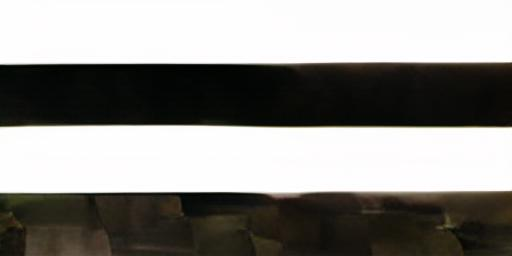
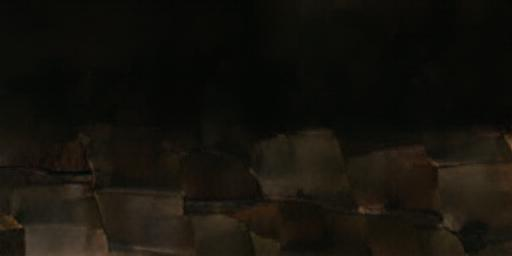
コードブックの一つずつを生成

diff --git a/generate_dataset.py b/generate_dataset.py
@@ -5,6 +5,7 @@ from torchvision.transforms.functional import to_pil_image
 import tqdm
 import os
 from utils.util import to_code,code_to_img
+from PIL import Image
 device = "cpu"
 
 vqvaes = torch.load("vqvae_models.pth")
@@ -23,8 +24,6 @@ torch.backends.cudnn.benchmark=True
 with torch.inference_mode():
     for i,d in enumerate(tqdm.tqdm(dataset)):
         data,path,roll_pixel = d
-        patch_size = 128
-        data[:,:patch_size, :patch_size] = 1
         #data = img = torch.from_numpy(cv2.resize(img,(512,256))).permute(2,0,1)
         data = to_code(data,encoder,quantizer,device)
         np.savez_compressed(f"datas_all_one/{i:06}.npz",data=data,path=np.array([path]),degree=np.array([roll_pixel]))
@@ -32,6 +31,7 @@ with torch.inference_mode():
             img = to_pil_image(code_to_img(data,quantizer,decoder,device)[0])
             img.save(f"vqvae_recon_one/{os.path.basename(path)}")
 
+#original
 with torch.inference_mode():
     for i,d in enumerate(tqdm.tqdm(dataset_test)):
         data,path,roll_pixel = d
@@ -41,3 +41,53 @@ with torch.inference_mode():
         if roll_pixel==0:
             img = to_pil_image(code_to_img(data,quantizer,decoder,device)[0])
             img.save(f"vqvae_recon_one_test/{os.path.basename(path)}")
+
+###############PATTERN_1   test用データ　エンコード前に画像の左上を白に加工##########################
+# with torch.inference_mode():
+#     for i,d in enumerate(tqdm.tqdm(dataset_test)):
+#         data,path,roll_pixel = d
+#         patch_size = 128
+#         data[:,:patch_size, :patch_size] = 1
+#         #data = img = torch.from_numpy(cv2.resize(img,(512,256))).permute(2,0,1)
+#         data = to_code(data,encoder,quantizer,device)
+#         np.savez_compressed(f"datas_all_test_one/{i:06}.npz",data=data,path=np.array([path]),degree=np.array([roll_pixel]))
+#         if roll_pixel==0:
+#             img = to_pil_image(code_to_img(data,quantizer,decoder,device)[0])
+#             img.save(f"vqvae_recon_one_test/{os.path.basename(path)}")
+
+
+###############PATTERN_2   test用データ　エンコーダ後にコードブックの左上を白に加工#####################
+with torch.inference_mode():
+    for i,d in enumerate(tqdm.tqdm(dataset_test)):
+        data,path,roll_pixel = d
+        #data = img = torch.from_numpy(cv2.resize(img,(512,256))).permute(2,0,1)
+        data = to_code(data,encoder,quantizer,device)
+        
+        #codebookの中身を変更
+        patch_size = 4
+        max_idx = data.max()
+        data = data.reshape(16,32)#flattenされていた部分を長方形型に
+        data[:patch_size,:patch_size] = max_idx
+        data = data.flatten()#flatに戻す
+        
+
+        np.savez_compressed(f"datas_all_test_one/{i:06}.npz",data=data,path=np.array([path]),degree=np.array([roll_pixel]))
+        if roll_pixel==0:
+            img = to_pil_image(code_to_img(data,quantizer,decoder,device)[0])
+            img.save(f"vqvae_recon_one_test/{os.path.basename(path)}")
+
+###############PATTERN_3  コードブックを分けて別々で生成　その後画像を並べて結合　##############################
+with torch.inference_mode():
+    for i,d in enumerate(tqdm.tqdm(dataset_test)):
+        data,path,roll_pixel = d
+        #data = img = torch.from_numpy(cv2.resize(img,(512,256))).permute(2,0,1)
+        data = to_code(data,encoder,quantizer,device)
+        np.savez_compressed(f"datas_all_test_one/{i:06}.npz",data=data,path=np.array([path]),degree=np.array([roll_pixel]))
+        if roll_pixel==0:
+            concat_img = Image.new('RGB',(512,256))
+            for i in range(16):
+                for j in range(32):
+                    code = data[i+j]
+                    img_patch = to_pil_image(code_to_img(data,quantizer,decoder,device)[0])
+                    concat_img.paste(img_patch,(16*j,16*i))
+            concat_img.save(f"vqvae_recon_one_test/{os.path.basename(path)}")
